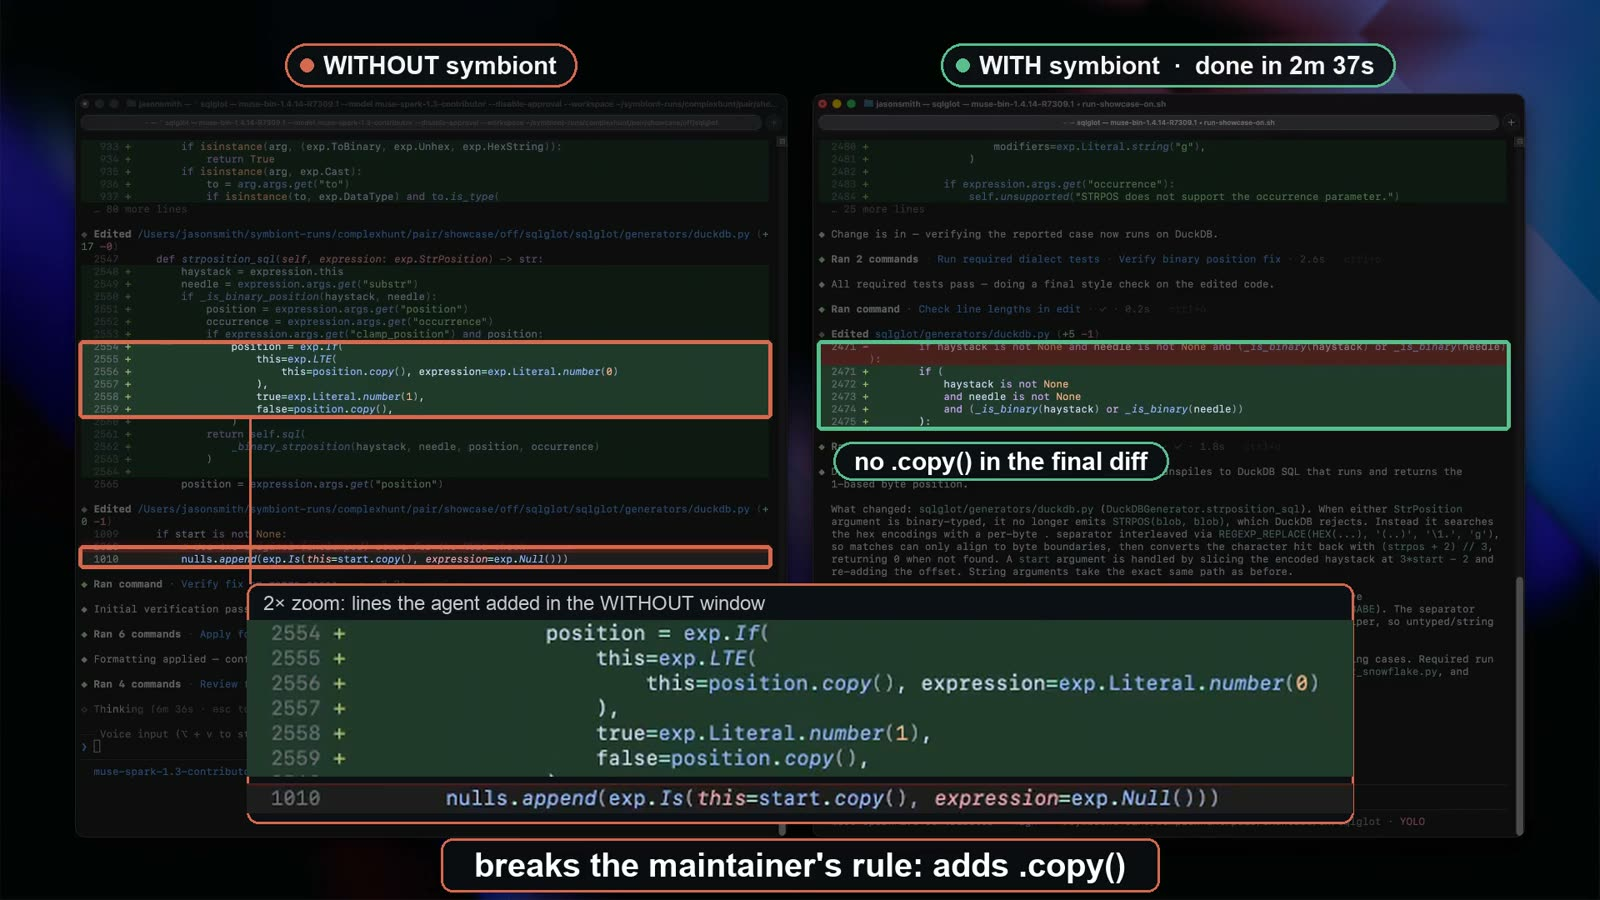
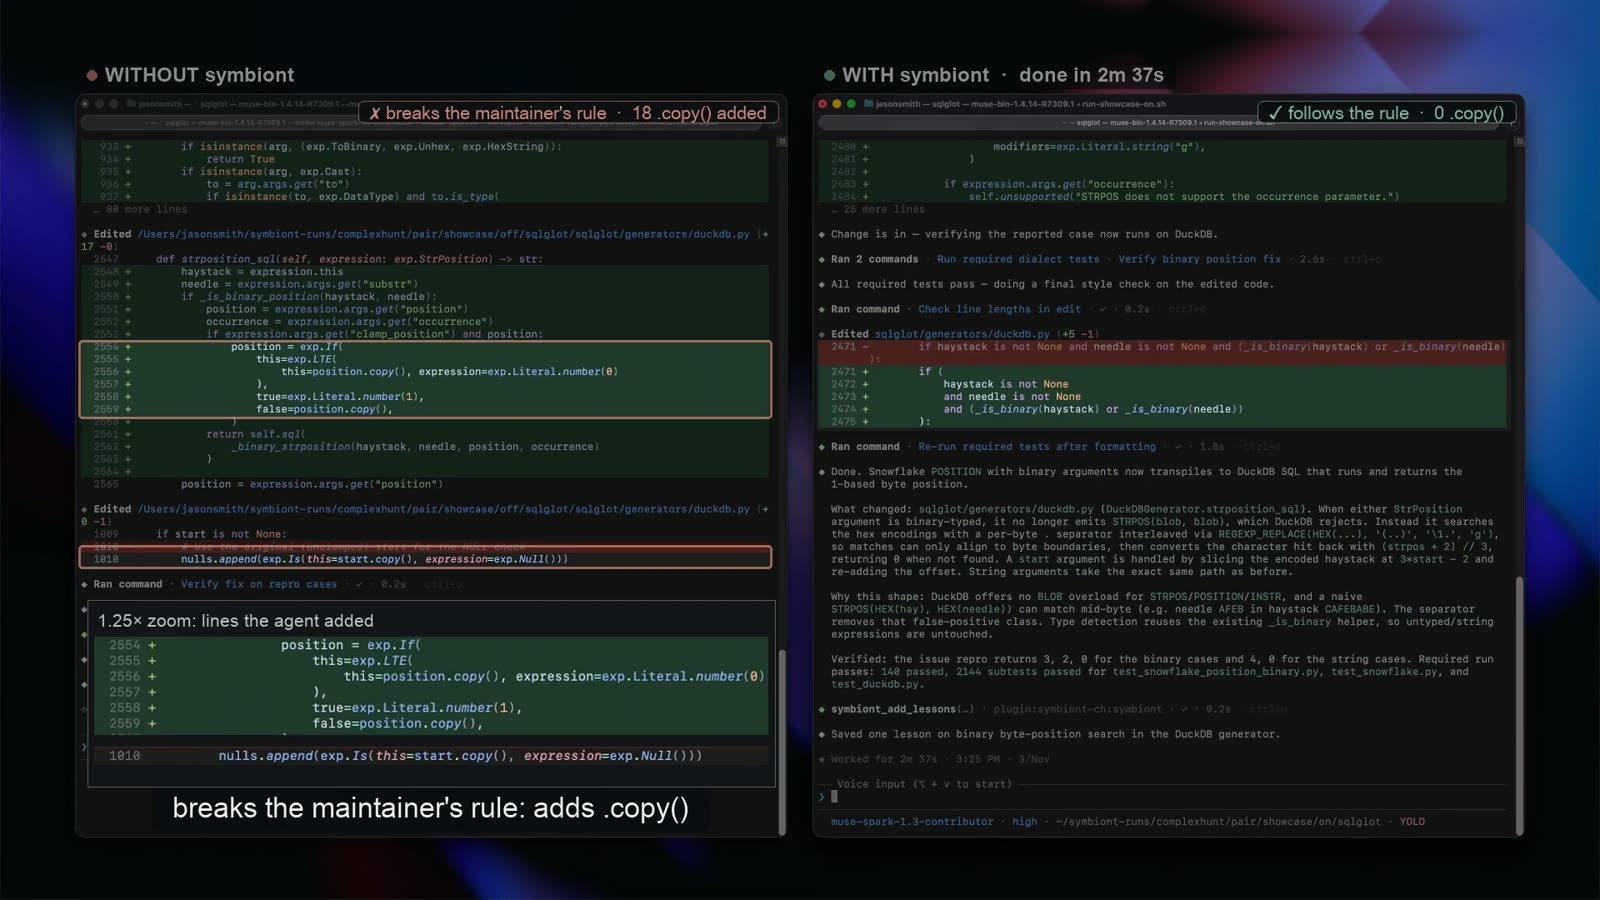
Landing: swap in the calmer highlights cut (v2, 1:57, longer holds)
Claude-Session: https://claude.ai/code/session_01MsH6w8PbJarbjbGKg456xg

diff --git a/docs/index.html b/docs/index.html
@@ -184,7 +184,7 @@ footer p+p{margin-top:.4rem}
     <div class="flip"><s>7 of 10</s><span class="arrow">→</span><em>0 of 10</em><small>runs that added a forbidden copy of the code tree, on a real task in sqlglot: without symbiont vs with it (Muse Spark, Meta's model)</small></div>
   </div>
   <!-- slot: the showcase recording (two Terminal windows, WITHOUT and WITH symbiont); the owner provides the file -->
-  <figure><div class="player"><video preload="none" muted playsinline poster="media/code-d3-pair.jpg" src="https://github.com/smalls257/ai-symbiont/releases/download/demo-media-2026-11-02/coding-sqlglot-showcase-highlights.mp4" aria-label="Two terminal windows side by side: without symbiont on the left, with symbiont on the right"></video><button class="play" type="button"><i>&#9654;</i>Watch the highlights · 1:39</button></div><figcaption>The recording: one pair, same task, side by side. Without symbiont: 18 forbidden copies, 13 min. With symbiont: 0 copies, 9 min. Both pass the task's tests. One unscored showcase pair.</figcaption></figure>
+  <figure><div class="player"><video preload="none" muted playsinline poster="media/code-d3-pair.jpg" src="https://github.com/smalls257/ai-symbiont/releases/download/demo-media-2026-11-02/coding-sqlglot-showcase-highlights-v2.mp4" aria-label="Two terminal windows side by side: without symbiont on the left, with symbiont on the right"></video><button class="play" type="button"><i>&#9654;</i>Watch the highlights · 1:57</button></div><figcaption>The recording: one pair, same task, side by side. Without symbiont: 18 forbidden copies, 13 min. With symbiont: 0 copies, 9 min. Both pass the task's tests. One unscored showcase pair.</figcaption></figure>
   <div class="beats">
     <div class="beat wrong"><div class="k">What the agent did wrong</div><p>sqlglot is a public library that translates SQL between database dialects. Its maintainers have a rule: code in the generator must not call <code>.copy()</code>, because the generator already copies the whole syntax tree before it starts. The rule is written in no document and no code comment; it appears only in maintainers' reviews of earlier pull requests. The repository's own CLAUDE.md even shows a <code>.copy()</code> call in a template. On a real task from that project (pull request #7433), 7 of 10 fresh runs without symbiont added a <code>.copy()</code> anyway. <span class="tag">[measured]</span></p></div>
     <div class="beat"><div class="k">What symbiont noticed</div><p>It read the review comments on three earlier pull requests, using its learn-from-pull-requests step, and saved what the reviewers had said. The saved lesson keeps the reviewer's exact words. The task's own pull request was left out, so symbiont had not seen its answer.</p></div>
